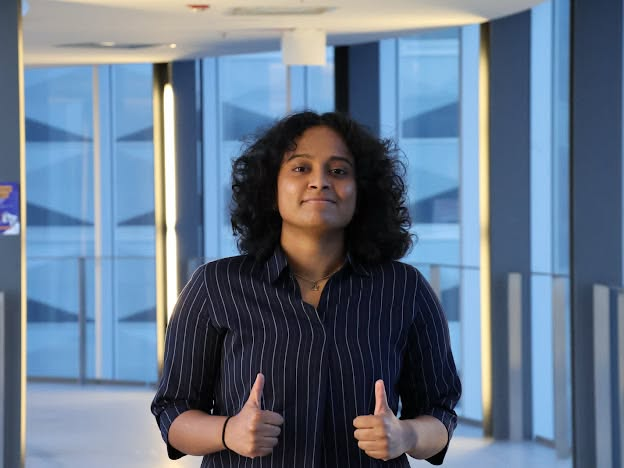
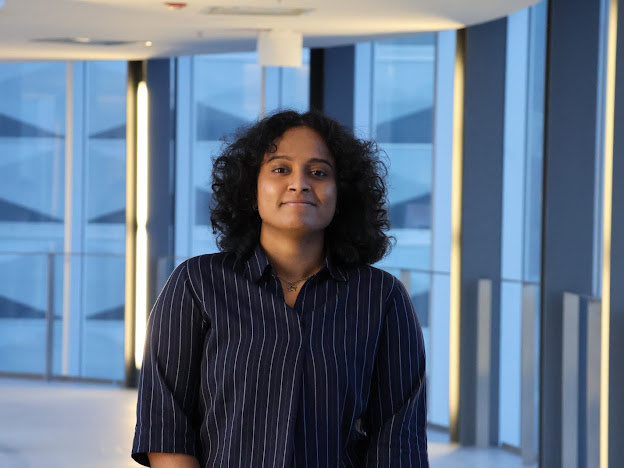
Update WSST page and team profiles
Remove budget section from WSST, add section spacing for mobile/tablet,
update profile pictures, add sustainability team members, delete old
Shamanthi.png in favor of shamanthi.jpg

diff --git a/src/Wsst.tsx b/src/Wsst.tsx
@@ -35,13 +35,11 @@ import heatInsulation from "./assets/wsst/heat-insulation.png";
 import cogBalancing from "./assets/wsst/cog-balancing.png";
 
 // Budget images
-import fundingTracking from "./assets/wsst/funding-tracking.png";
-import budgetSheet from "./assets/wsst/budget-sheet.png";
 
 export default function Wsst() {
   return (
     <>
-      <div className={styles.astraprojectcontainer}>
+      <div className={`${styles.astraprojectcontainer} ${wsstStyles.wsstPage}`}>
         <ProjectHeader
           title="WSST"
           subtitle="Waterloo Space Soldering Team"
@@ -836,50 +834,6 @@ export default function Wsst() {
                 </tr>
               </tfoot>
             </table>
-          </div>
-        </div>
-
-        {/* Budget & Funding */}
-        <div className={styles.projectgoals}>
-          <div className={wsstStyles.budgetSection}>
-            <h3>Budget & Funding</h3>
-            <p>
-              WSST is funded through a combination of university grants,
-              engineering society sponsorships, in-kind lab access, and industry
-              sponsors. The total project budget covers components, testing,
-              software licenses, outreach, and flight campaign expenses.
-            </p>
-            <div className={wsstStyles.budgetHighlights}>
-              <div className={wsstStyles.budgetHighlight}>
-                <h4>$11,000</h4>
-                <span>Total Budget</span>
-              </div>
-              <div className={wsstStyles.budgetHighlight}>
-                <h4>$71,043</h4>
-                <span>Funding Secured</span>
-              </div>
-              <div className={wsstStyles.budgetHighlight}>
-                <h4>$6,000</h4>
-                <span>Flight Campaign</span>
-              </div>
-              <div className={wsstStyles.budgetHighlight}>
-                <h4>$1,700</h4>
-                <span>Testing & Research</span>
-              </div>
-            </div>
-            <div className={wsstStyles.budgetImages}>
-              <div className={wsstStyles.budgetImageItem}>
-                <img src={budgetSheet} alt="WSST budget breakdown by category" />
-                <p>Budget breakdown by expense category</p>
-              </div>
-              <div className={wsstStyles.budgetImageItem}>
-                <img
-                  src={fundingTracking}
-                  alt="WSST funding and grant tracking"
-                />
-                <p>Funding sources and grant tracking</p>
-              </div>
-            </div>
           </div>
         </div>
 

diff --git a/src/Wsst.module.css b/src/Wsst.module.css
@@ -375,70 +375,6 @@
     opacity: 0.85;
 }
 
-/* Budget section */
-.budgetSection {
-    padding: 0 2rem;
-}
-
-.budgetSection h3 {
-    margin-bottom: 1rem;
-}
-
-.budgetImages {
-    display: grid;
-    grid-template-columns: 1fr;
-    gap: 1.5rem;
-    margin-top: 1rem;
-}
-
-.budgetImageItem {
-    border-radius: 1rem;
-    overflow: hidden;
-}
-
-.budgetImageItem img {
-    width: 100%;
-    border-radius: 1rem;
-    background: white;
-    padding: 0.5rem;
-}
-
-.budgetImageItem p {
-    font-size: 0.7rem !important;
-    margin-top: 0.5rem;
-    opacity: 0.6;
-    color: var(--text-color);
-    text-align: center;
-}
-
-.budgetHighlights {
-    display: grid;
-    grid-template-columns: repeat(2, 1fr);
-    gap: 0.75rem;
-    margin-top: 1rem;
-}
-
-.budgetHighlight {
-    border-radius: 0.75rem;
-    background: rgba(101, 64, 211, 0.12);
-    border: 1px solid rgba(101, 64, 211, 0.25);
-    padding: 0.75rem;
-    text-align: center;
-}
-
-.budgetHighlight h4 {
-    margin: 0;
-    font-size: 1.1rem;
-    font-weight: 700;
-    color: var(--text-color);
-}
-
-.budgetHighlight span {
-    font-size: 0.65rem;
-    opacity: 0.6;
-    color: var(--text-color);
-}
-
 /* Power budget table */
 .powerTable {
     width: 100%;
@@ -579,6 +515,11 @@
     opacity: 0.9;
 }
 
+/* Section spacing for mobile/tablet */
+.wsstPage > div + div {
+    margin-top: 1.5rem;
+}
+
 /* Desktop overrides */
 @media (min-width: 1000px) {
     .solderComparison {
@@ -647,18 +588,6 @@
 
     .procedurePhase {
         flex: 1;
-    }
-
-    .budgetSection {
-        padding: 0;
-    }
-
-    .budgetImages {
-        grid-template-columns: 1fr 1fr;
-    }
-
-    .budgetHighlights {
-        grid-template-columns: repeat(4, 1fr);
     }
 
     .groundTestGrid {

diff --git a/src/team.tsx b/src/team.tsx
@@ -97,12 +97,22 @@ export const astraTeam: Person[] = [
 
 // Space Sustainability project team
 export const ssTeam: Person[] = [
-  { name: "Madison Prange", role: "Project Lead", imageUrl: avatarMadison },
-  { name: "Coming Soon", role: "Electrical", placeholder: true },
-  { name: "Coming Soon", role: "Mechanical", placeholder: true },
-  { name: "Coming Soon", role: "Software", placeholder: true },
-  { name: "Coming Soon", role: "Software", placeholder: true },
-  { name: "Coming Soon", role: "Research", placeholder: true },
+  { name: "Anita Shunbuli", role: "Member", placeholder: true },
+  { name: "Madison Prange", role: "Member", imageUrl: avatarMadison },
+  { name: "Kate Jessop", role: "Member", placeholder: true },
+  { name: "Gurpreet Singh", role: "Member", placeholder: true },
+  { name: "Drishti Manilall", role: "Member", placeholder: true },
+  { name: "Aidan Schreder", role: "Member", placeholder: true },
+  { name: "Anaisha Jain", role: "Member", placeholder: true },
+  { name: "Nikiel Lange", role: "Member", placeholder: true },
+  { name: "Theria Liu", role: "Member", placeholder: true },
+  { name: "Lakysha Ramnani", role: "Member", placeholder: true },
+  { name: "Isabella Lyn", role: "Member", placeholder: true },
+  { name: "Hazel Bains", role: "Member", placeholder: true },
+  { name: "Sydney Yang", role: "Member", placeholder: true },
+  { name: "Krish Jain", role: "Member", placeholder: true },
+  { name: "Alex Ng", role: "Member", placeholder: true },
+  { name: "Emily Hoang", role: "Member", placeholder: true },
 ];
 
 const alumni: Person[] = [
